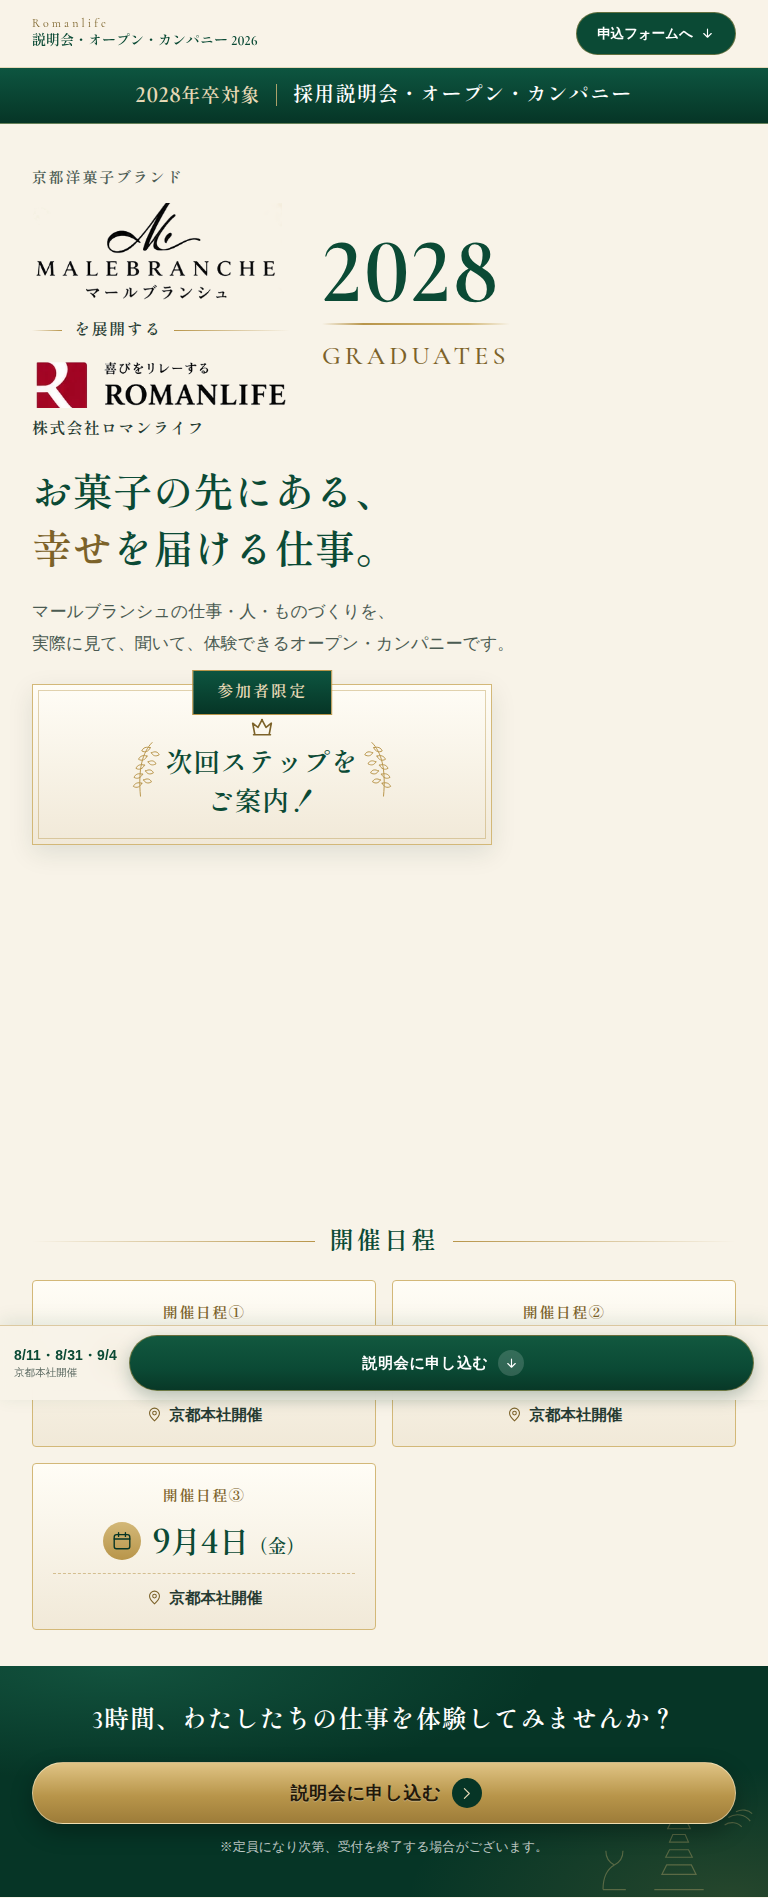
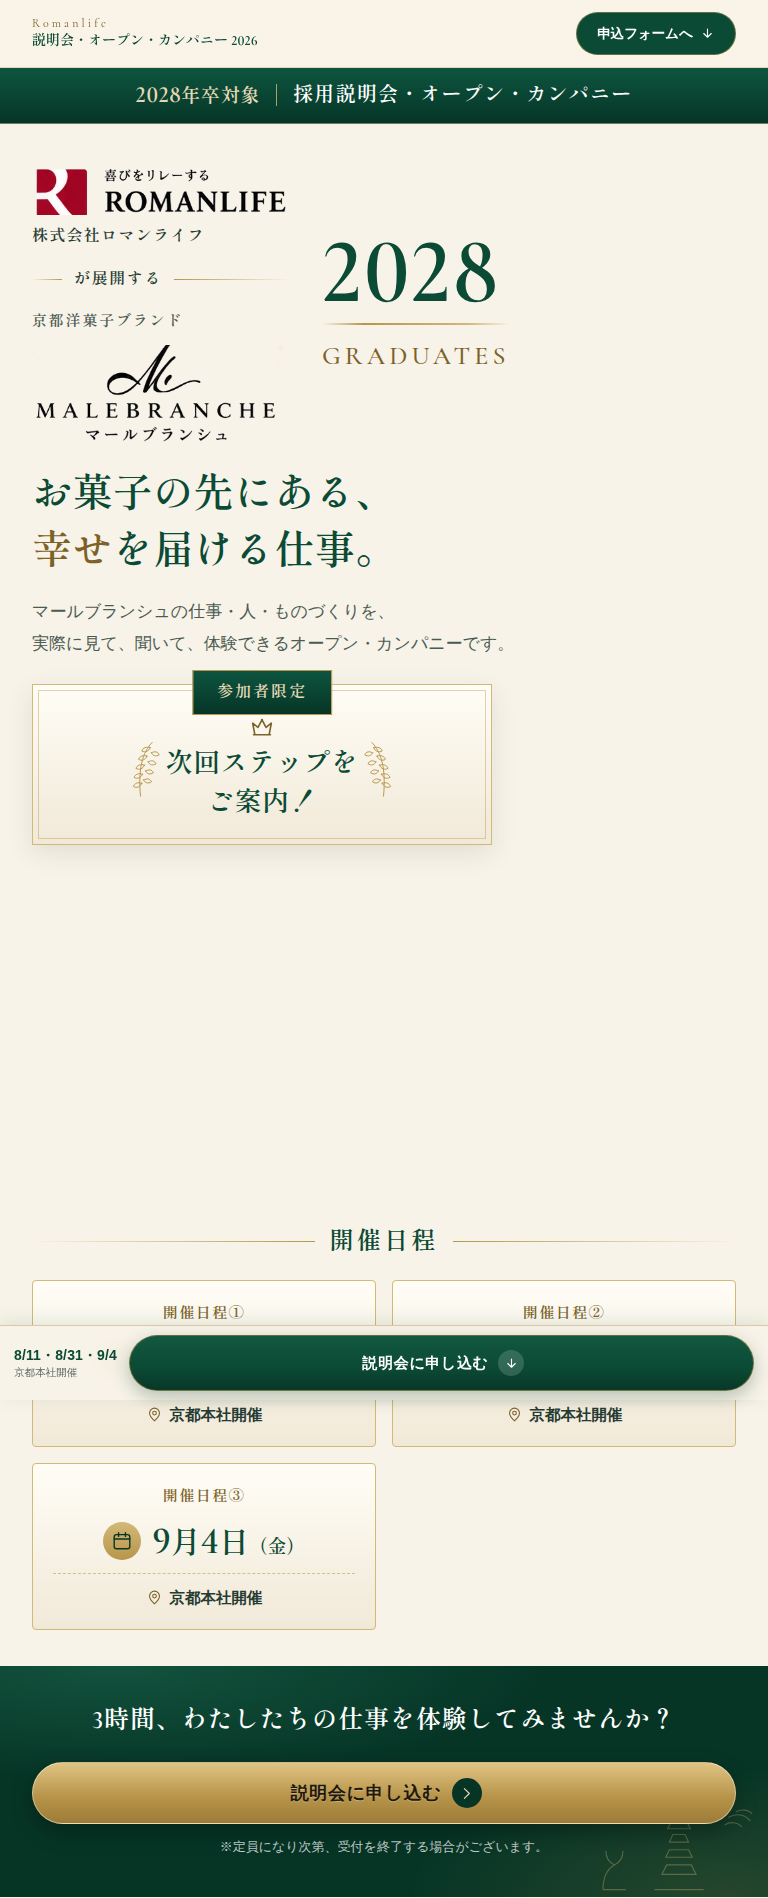
feat(static-lp): FVのブランド表示をロマンライフ先頭の並びへ変更
上から ROMANLIFE ／ 株式会社ロマンライフ ／ が展開する ／ 京都洋菓子ブランド ／
MALEBRANCHE の順に変更。並び替えに合わせて接続の語を
「を展開する」から「が展開する」へ修正した。

確認: 375〜1920pxで横スクロールなし／壊れ画像なし／コンソールエラーなし、
axe-core（WCAG 2.0/2.1 A・AA）違反0件、入力→確認→完了のフォーム動作を確認

Claude-Session: https://claude.ai/code/session_015d8YPaoft4QzEwSfga62S2

Changed region(s): [[0.0312, 0.0622, 0.375, 0.2487]]

diff --git a/static-lp/index.html b/static-lp/index.html
@@ -207,15 +207,15 @@
 
         <div class="hero-top">
           <div class="brandblock">
+            <img class="bb-logo bb-logo-rl" src="assets/images/logo-romanlife.png"
+                 width="389" height="76" fetchpriority="high" decoding="async"
+                 alt="喜びをリレーする ROMANLIFE">
+            <p class="bb-corp">株式会社ロマンライフ</p>
+            <p class="bb-conj"><span>が展開する</span></p>
             <p class="bb-label">京都洋菓子ブランド</p>
             <img class="bb-logo bb-logo-mb" src="assets/images/logo-malebranche.png"
                  width="374" height="148" decoding="async"
                  alt="MALEBRANCHE マールブランシュ">
-            <p class="bb-conj"><span>を展開する</span></p>
-            <img class="bb-logo bb-logo-rl" src="assets/images/logo-romanlife.png"
-                 width="389" height="76" decoding="async"
-                 alt="喜びをリレーする ROMANLIFE">
-            <p class="bb-corp">株式会社ロマンライフ</p>
           </div>
 
           <p class="hero-grad">

diff --git a/static-lp/styles.css b/static-lp/styles.css
@@ -392,8 +392,8 @@ legend { padding: 0; }
   color: var(--ink-soft); margin-bottom: 10px;
 }
 .bb-logo { display: block; height: auto; margin-inline: auto; }
-.bb-logo-mb { width: clamp(196px, 54vw, 250px); }
-.bb-logo-rl { width: clamp(200px, 56vw, 258px); margin-top: 4px; }
+.bb-logo-mb { width: clamp(196px, 54vw, 250px); margin-top: 2px; }
+.bb-logo-rl { width: clamp(200px, 56vw, 258px); }
 .bb-conj {
   display: flex; align-items: center; gap: 12px;
   margin: 13px 0 12px;

diff --git a/static-lp/README.md b/static-lp/README.md
@@ -215,7 +215,7 @@ source{ utm_source, utm_medium, utm_campaign, utm_content, utm_term, referrer, p
 | カンプの要素 | 実装 |
 | --- | --- |
 | 上部の帯「2028年卒対象／採用説明会・オープン・カンパニー」 | HTML＋CSS（`.hero-ribbon`） |
-| 「京都洋菓子ブランド」「を展開する」「株式会社ロマンライフ」 | HTMLテキスト |
+| 「株式会社ロマンライフ」「が展開する」「京都洋菓子ブランド」 | HTMLテキスト |
 | MALEBRANCHE ／ ROMANLIFE のロゴ | **画像**（`assets/images/logo-*.png`） |
 | 「2028 GRADUATES」 | HTMLテキスト＋CSS（`.hero-grad`） |
 | 見出し・リード文 | HTMLテキスト |
